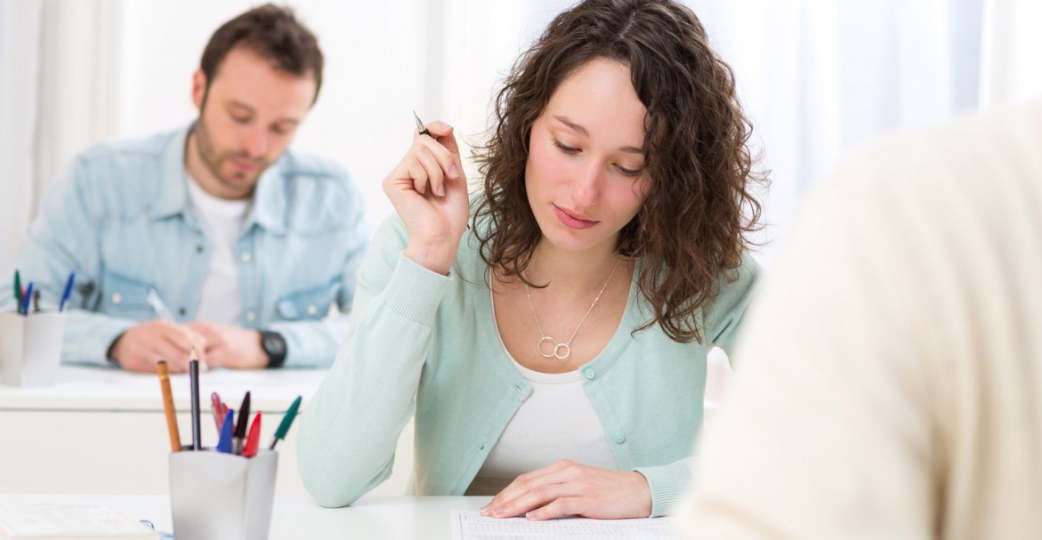
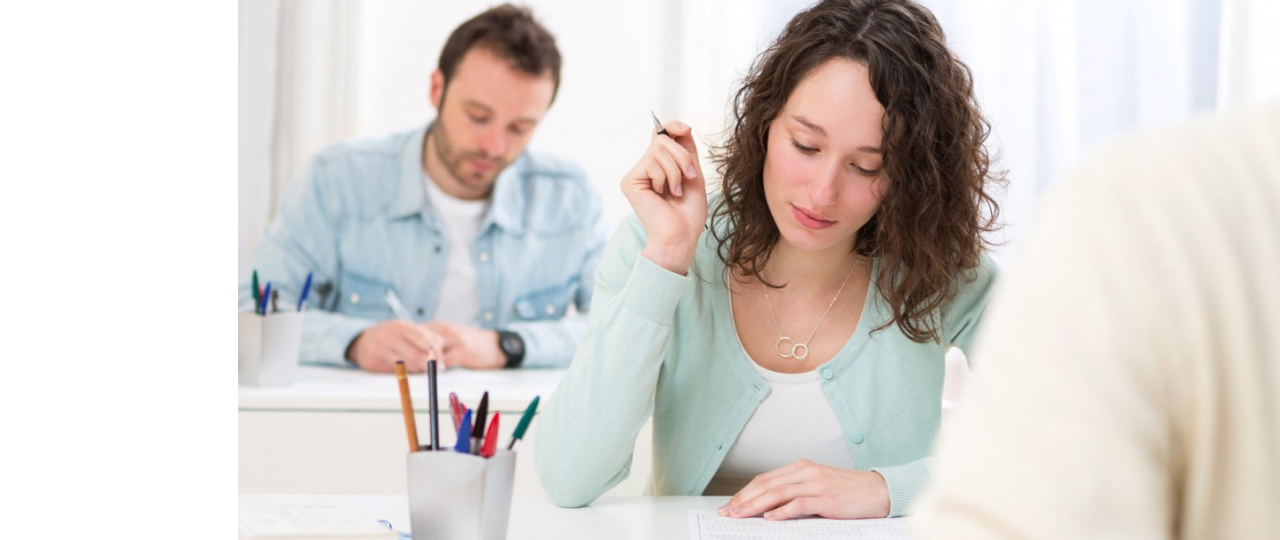
Исправил пути к картинкам, первый слайд на главной странице

diff --git a/css/content_weworking.less b/css/content_weworking.less
@@ -109,7 +109,7 @@
             .content-weworking-photozone-photo {
                 width: 100%;
                 height: 100%;
-                background-image: url(../img/slider_content/weworking1.jpg);
+                background-image: url(../img/main_page-img/weworking1.jpg);
                 background-repeat: no-repeat;
                 background-size: cover;
             }

diff --git a/css/main-page.less b/css/main-page.less
@@ -10,8 +10,8 @@
       }
       @media (min-width: 577px) {
         background-image: url(../img/slider_content/main-page.png);
-        background-size: contain;
-        background-position-x: 317px;
+        // background-size: contain;
+        // background-position-x: 317px;
         &::before {
           display: none;
         }

diff --git a/css/content_weworking.css b/css/content_weworking.css
@@ -109,7 +109,7 @@
   .content-wework .content-weworking-photozone .content-weworking-photozone-photo {
     width: 100%;
     height: 100%;
-    background-image: url(../img/slider_content/weworking1.jpg);
+    background-image: url(../img/main_page-img/weworking1.jpg);
     background-repeat: no-repeat;
     background-size: cover;
   }

diff --git a/css/main-page.css b/css/main-page.css
@@ -14,8 +14,6 @@
 @media (min-width: 577px) {
   .slider__item_1 {
     background-image: url(../img/slider_content/main-page.png);
-    background-size: contain;
-    background-position-x: 317px;
   }
   .slider__item_1::before {
     display: none;
